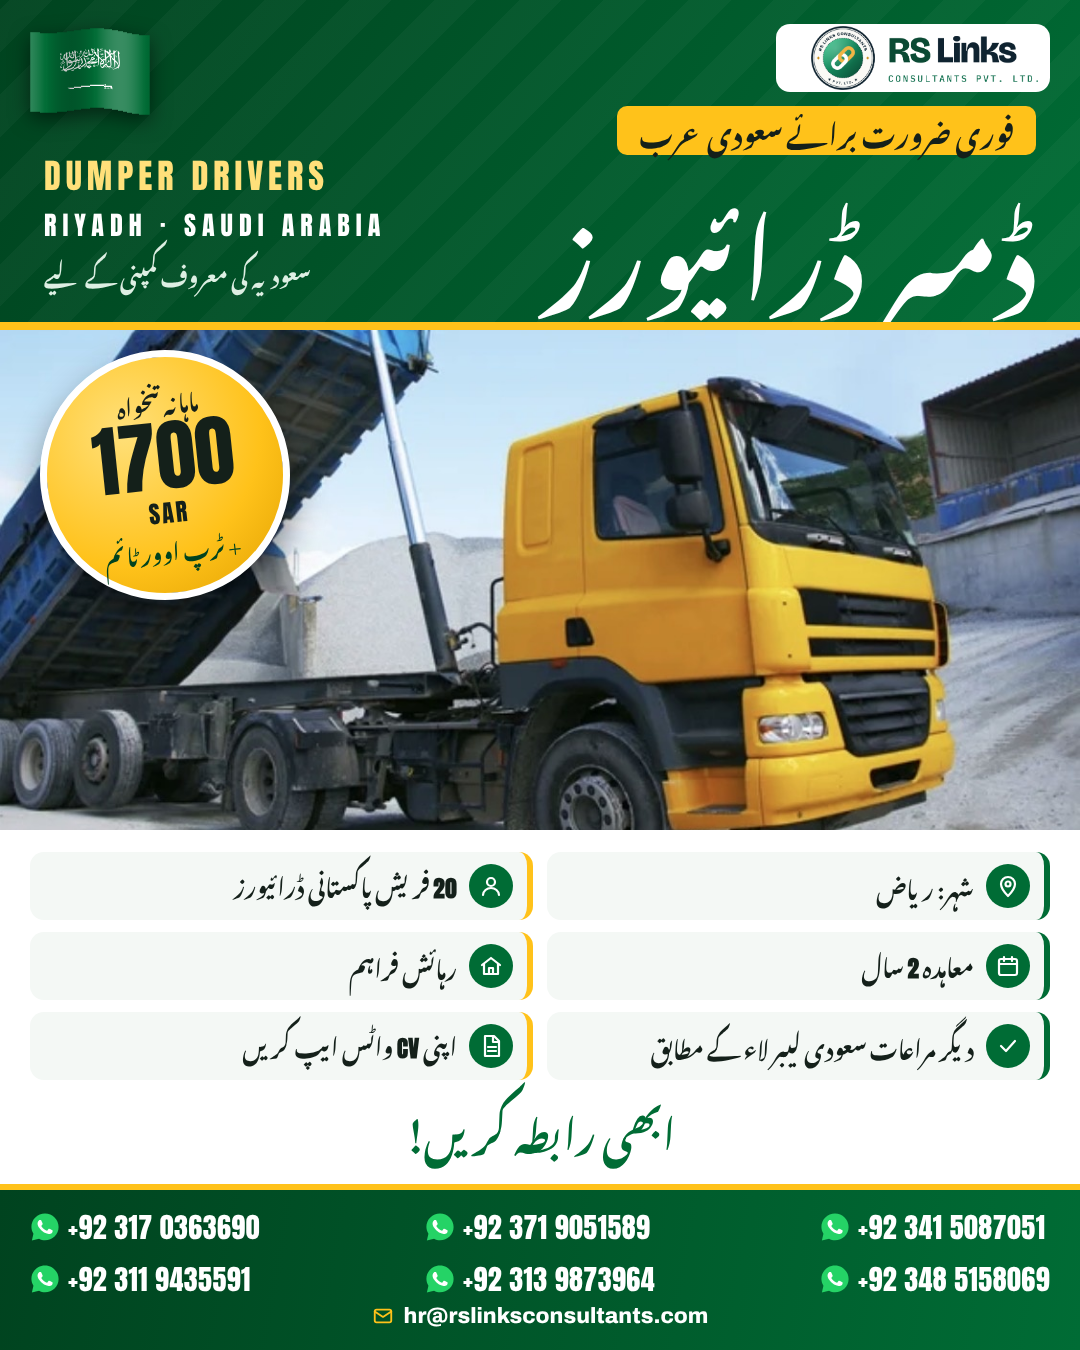
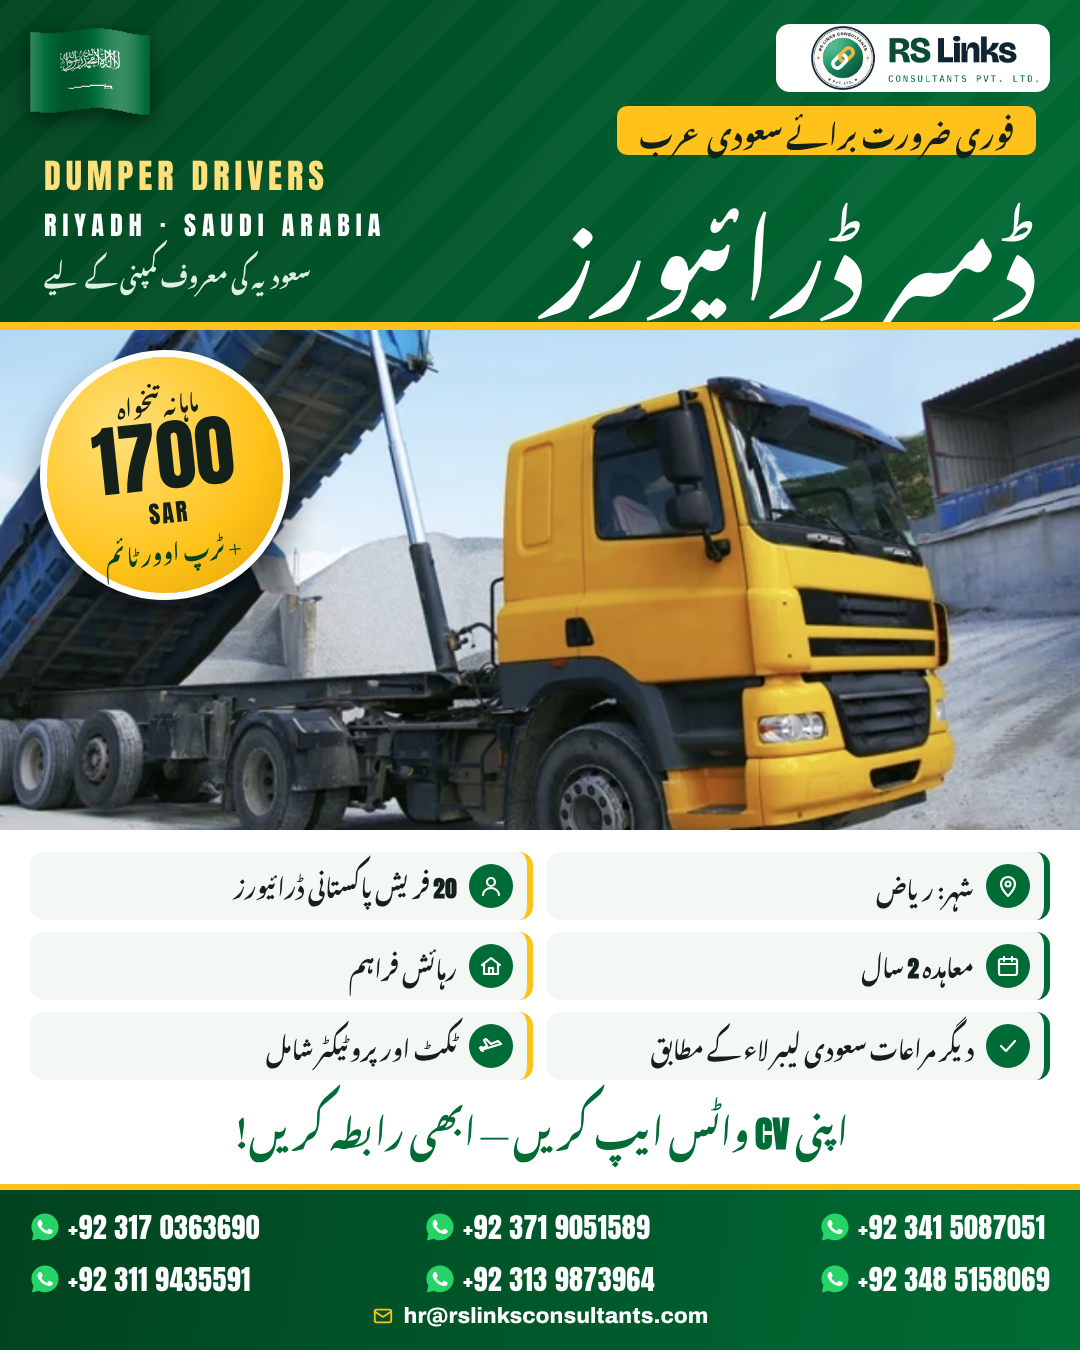
Saudi dumper drivers: ticket & protector included
Claude-Session: https://claude.ai/code/session_01YJ5ofgU8QCiWTsYR9pvXG4

diff --git a/src/saudi_dumper_drivers_ur_v2.py b/src/saudi_dumper_drivers_ur_v2.py
@@ -14,7 +14,7 @@ T = lambda s, px, c, extra="", lh=1.8: f"<div class='t' style='font-size:{px}px;
 def build():
     P = lambda f: (PHOTOS / f).as_uri()
     facts = [("pin", "شہر: ریاض"), ("user", f"{N(20)} فریش پاکستانی ڈرائیورز"), ("calendar", f"معاہدہ {N(2)} سال"),
-             ("home", "رہائش فراہم"), ("check", "دیگر مراعات سعودی لیبر لاء کے مطابق"), ("doc", f"اپنی {N('CV')} واٹس ایپ کریں")]
+             ("home", "رہائش فراہم"), ("check", "دیگر مراعات سعودی لیبر لاء کے مطابق"), ("plane", "ٹکٹ اور پروٹیکٹر شامل")]
     rows = "".join(f"<div style='display:flex;align-items:center;gap:12px;background:#F4F8F5;border-radius:14px;padding:0 14px;height:68px;border-right:6px solid {GRN if i % 2 == 0 else YEL}'>"
                    f"<span style='width:44px;height:44px;border-radius:50%;background:{GRN};display:flex;align-items:center;justify-content:center;flex:none'>{icon(ic, 24, '#fff', 2.2)}</span>"
                    f"{T(t, 23, INK, 'font-weight:700;white-space:nowrap', 1.8)}</div>" for i, (ic, t) in enumerate(facts))
@@ -41,7 +41,7 @@ def build():
  {T('+ ٹرپ اوور ٹائم', 22, GRN2, 'font-weight:700', 1.6)}</div>
 
 <div class='abs' style='top:852px;left:30px;right:30px;display:grid;grid-template-columns:1fr 1fr;gap:12px 14px'>{rows}</div>
-<div class='abs' style='top:1094px;left:0;width:1080px;text-align:center'>{T('ابھی رابطہ کریں!', 40, GRN, 'font-weight:700', 1.7)}</div>
+<div class='abs' style='top:1094px;left:0;width:1080px;text-align:center'>{T(f"اپنی {N('CV')} واٹس ایپ کریں — ابھی رابطہ کریں!", 36, GRN, 'font-weight:700', 1.75)}</div>
 
 <div class='abs' style='top:1190px;left:0;width:1080px;height:160px;background:linear-gradient(100deg,{GRN2},{GRN})'></div>
 <div class='abs' style='top:1184px;left:0;width:1080px;height:6px;background:{YEL}'></div>
